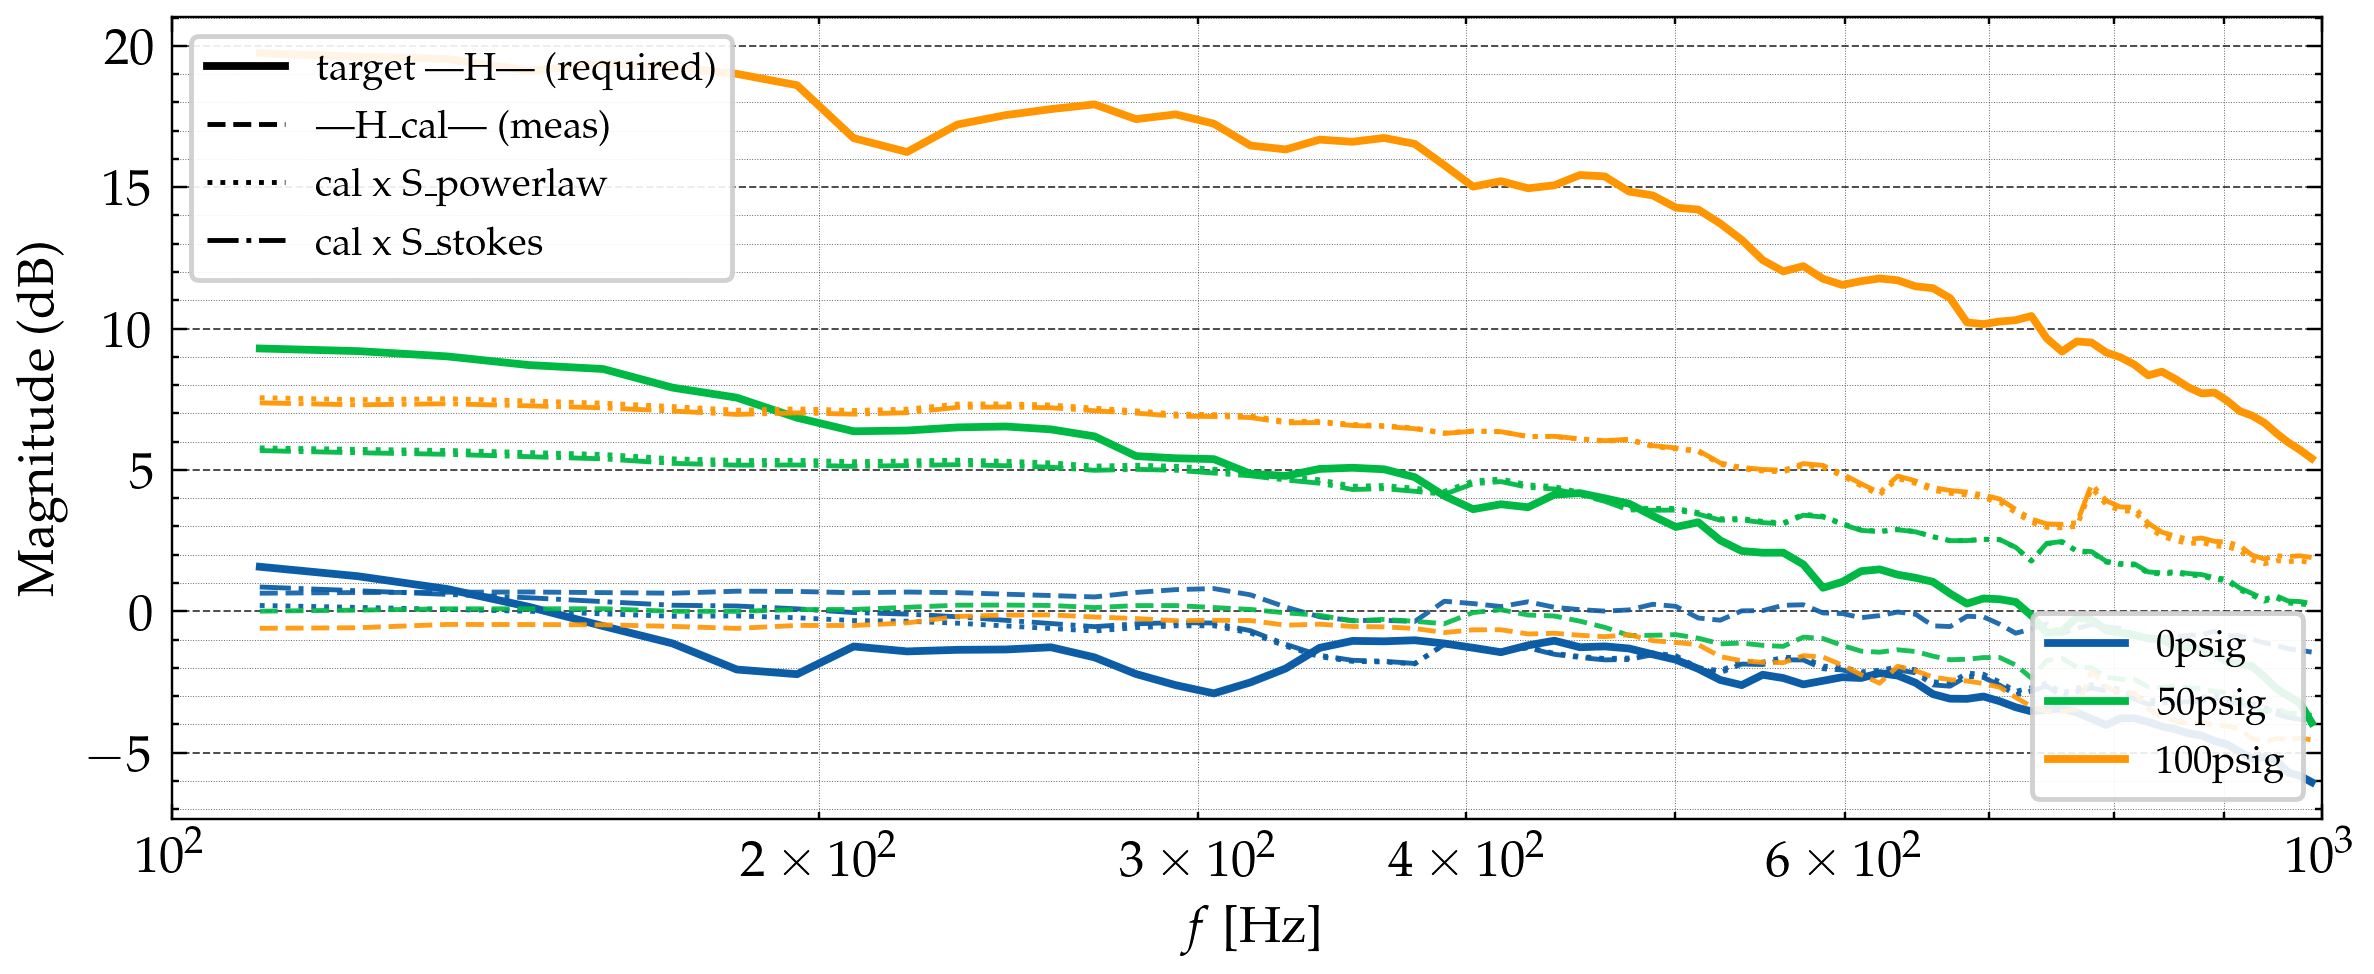
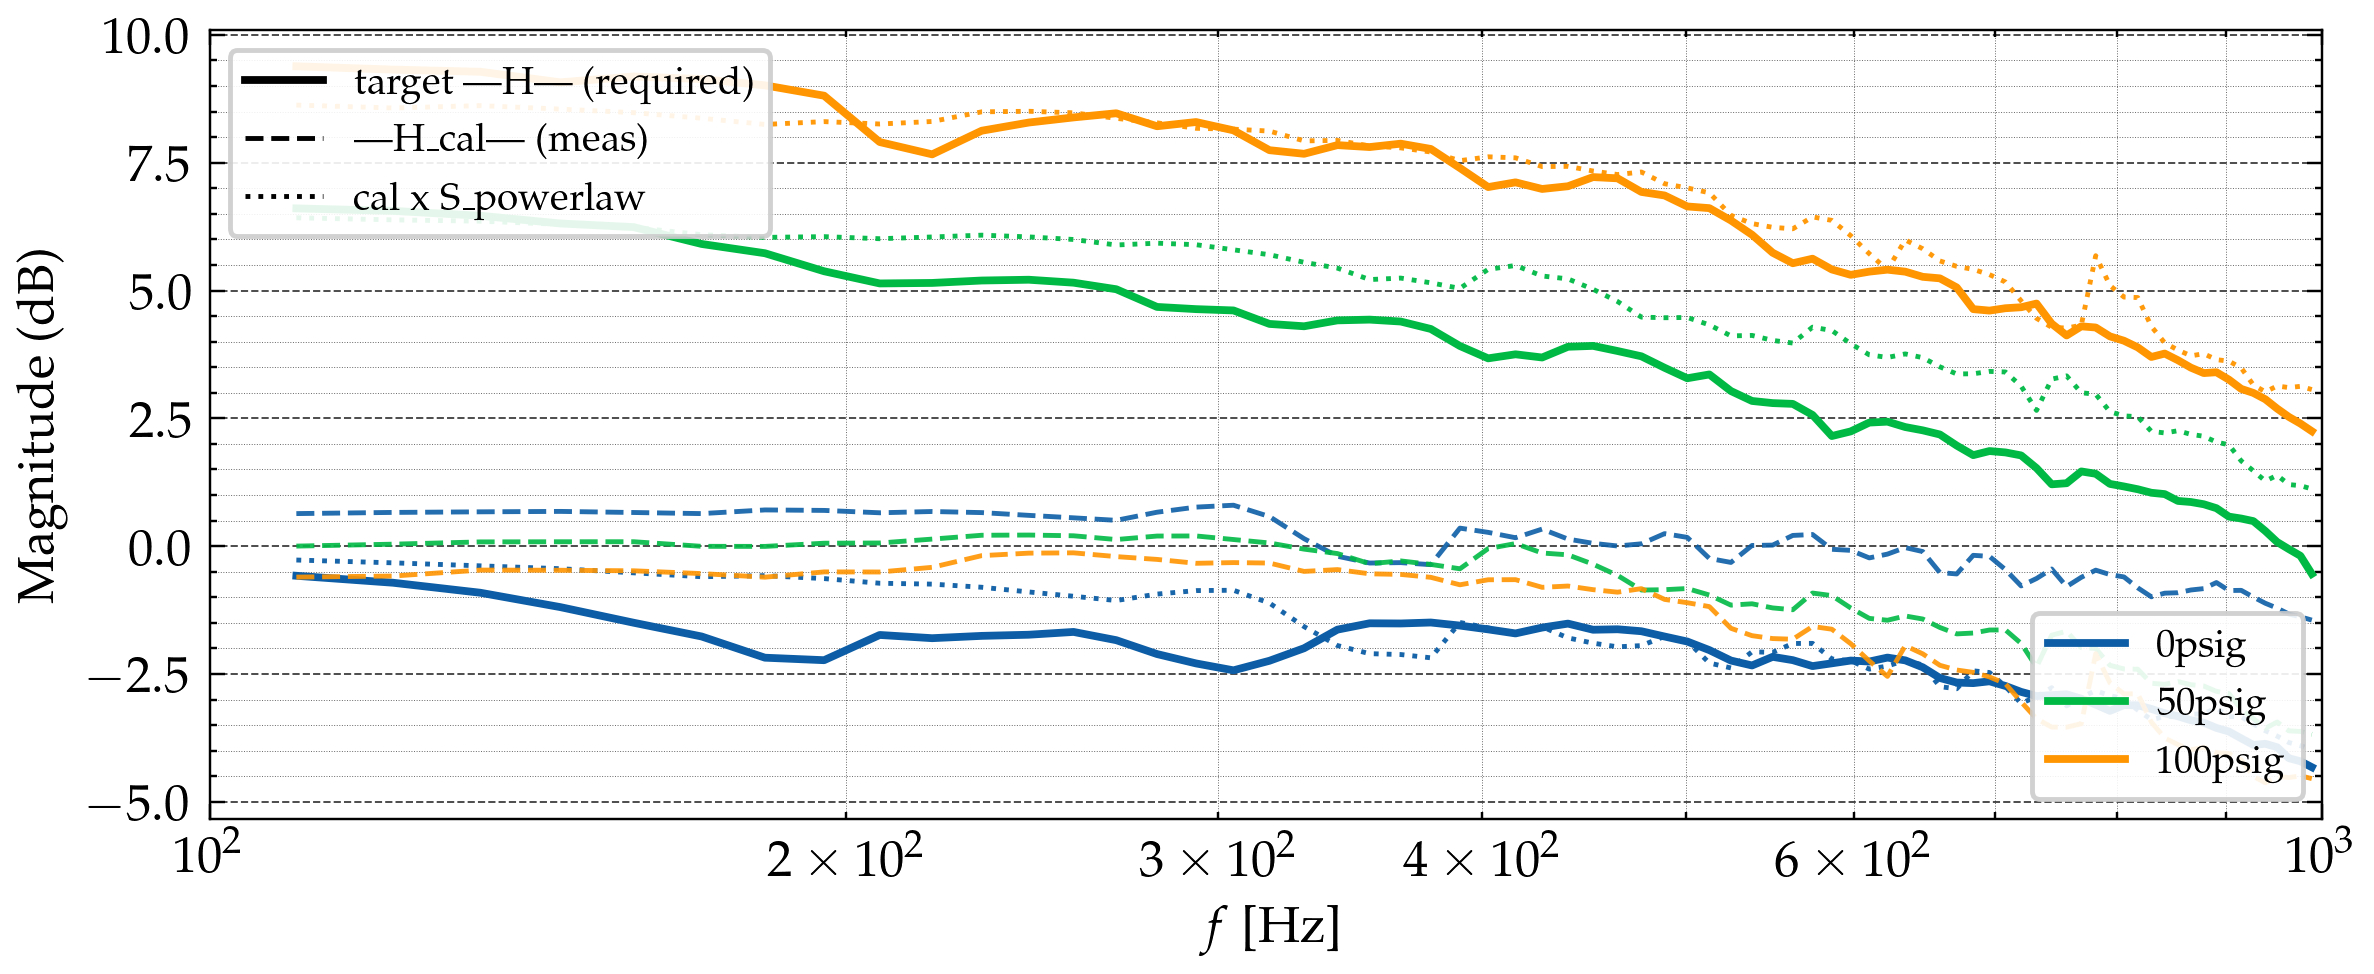
This seems to work really well, incorporate 2nd calibration

diff --git a/src/25-10-30__creative_lumped_element.py b/src/25-10-30__creative_lumped_element.py
@@ -271,19 +271,6 @@ def plot_target_calib_modeled(
     (c0_db, a_rho, b_f), scale_powerlaw, diag_pw = fit_speaker_scaling_from_files(
         labels=labels, fmin=fmin, fmax=fmax, f_ref=f_ref, rho_ref=rho_ref, invert_target=invert_target
     )
-
-    # (b) Stokes-aware broken-power-law model (needs geometry)
-    params_stk, make_scale_stk, diag_stk = fit_speaker_scaling_with_stokes(
-        labels=labels,
-        a_orifice=a_orifice,
-        L_orifice=L_orifice,
-        fmin=fmin,
-        fmax=fmax,
-        f_ref=f_ref,
-        rho_ref=rho_ref,
-        invert_target=invert_target,
-    )
-
     # ----------------------------
     # 2) helpers & styling
     # ----------------------------
@@ -333,29 +320,21 @@ def plot_target_calib_modeled(
             # (here we just raise; you can compute ν via air_props_from_gauge(...) if you prefer).
             raise ValueError(f"Missing 'nu' attribute in lumped_scaling_{L}.h5; please save it in save_lumped_scaling_target().")
 
-        scale_stk = make_scale_stk(nu)                  # bind ν
-        S_stk = scale_stk(f_cal, rho)                   # evaluate at (f, ρ)
-        modeled_stk = cal_mag * S_stk
 
         # --- plot (target, measured, both models)
         if to_db:
             ax.semilogx(f_tgt, as_db(tgt_mag), color=color, lw=1.6)                     # target
             ax.semilogx(f_cal, as_db(cal_mag), color=color, lw=1.0, ls="--", alpha=0.9) # measured cal
             ax.semilogx(f_cal, as_db(modeled_pw), color=color, lw=1.0, ls=":", alpha=0.95)   # power-law modeled
-            ax.semilogx(f_cal, as_db(modeled_stk), color=color, lw=1.0, ls="-.", alpha=0.95) # Stokes modeled
         else:
             ax.semilogx(f_tgt, tgt_mag, color=color, lw=1.6)
             ax.semilogx(f_cal, cal_mag, color=color, lw=1.0, ls="--", alpha=0.9)
             ax.semilogx(f_cal, modeled_pw, color=color, lw=1.0, ls=":", alpha=0.95)
-            ax.semilogx(f_cal, modeled_stk, color=color, lw=1.0, ls="-.", alpha=0.95)
 
         # --- RMSE on the target grid (in dB) for both models
         pw_on_tgt  = np.interp(f_tgt, f_cal, modeled_pw)
-        stk_on_tgt = np.interp(f_tgt, f_cal, modeled_stk)
         e_pw  = as_db(tgt_mag) - as_db(pw_on_tgt)
-        e_stk = as_db(tgt_mag) - as_db(stk_on_tgt)
         rmse_pw[L]  = float(np.sqrt(np.mean(e_pw**2)))
-        rmse_stk[L] = float(np.sqrt(np.mean(e_stk**2)))
 
     # ----------------------------
     # 4) axes & legends
@@ -371,7 +350,6 @@ def plot_target_calib_modeled(
         Line2D([0], [0], color='k', lw=1.6, ls='-',  label="target |H| (required)"),
         Line2D([0], [0], color='k', lw=1.0, ls='--', label="|H_cal| (meas)"),
         Line2D([0], [0], color='k', lw=1.0, ls=':',  label="cal x S_powerlaw"),
-        Line2D([0], [0], color='k', lw=1.0, ls='-.', label="cal x S_stokes"),
     ]
     leg1 = ax.legend(handles=style_handles, loc="upper left", fontsize=8, framealpha=0.9)
 
@@ -415,9 +393,10 @@ def plot_tf_model_comparison():
 
     # (rho0 only used if you want to compare densities directly elsewhere)
     pgs = [0, 50, 100]
-    rho0, *_  = air_props_from_gauge(pgs[0], TDEG[0]+273)
+    
+    u_tau_uncertainty = [0.2, 0.1, 0.05]
 
-    fig, ax = plt.subplots(1, 1, figsize=(7, 3), tight_layout=True)
+    fig, ax = plt.subplots(3, 1, figsize=(7, 4), tight_layout=True, sharex=True, sharey=True)
 
     # --- main loop over datasets ---
     for i, L in enumerate(labels):
@@ -432,10 +411,16 @@ def plot_tf_model_comparison():
             nu = float(hf.attrs['nu'])
             rho = float(hf.attrs['rho'])
             # f_cut = hf.attrs.get('f_cut', np.nan)  # unused here
-            # Re_tau = hf.attrs.get('Re_tau', np.nan)
+            Re_tau = hf.attrs.get('Re_tau', np.nan)
             # cf_2   = hf.attrs.get('cf_2',   np.nan)
         f_cal = np.load(TONAL_BASE + f"wn_frequencies_{L}.npy").astype(float)
         H_cal = np.load(TONAL_BASE + f"wn_H1_{L}.npy")
+
+        # Plot bl model
+        T_plus = (u_tau**2 / nu) / f_cal
+        g1, g2, rv = bl_model(T_plus, Re_tau, 2*(u_tau**2)/14.0**2)
+        ax[i].semilogx(f_cal, (g1+g2)*rv, color=colours[i], lw=0.6, ls='--')
+        ic(Re_tau)
 
         # Load measured calibration FRF (frequency + complex H)
 
@@ -464,31 +449,33 @@ def plot_tf_model_comparison():
         y2_plot = Y2_pm[band]
 
         # plot PH1 & PH2 for this label
-        ax.semilogx(f_plot, y1_plot, linestyle='-', color=colours[i], alpha=0.8, lw=0.8)
-        ax.semilogx(f_plot, y2_plot, linestyle='-', color=colours[i], alpha=0.8, lw=0.8)
+        ax[i].semilogx(f_plot, y1_plot, linestyle='-', color=colours[i], alpha=0.8, lw=0.8)
+        ax[i].semilogx(f_plot, y2_plot, linestyle='-', color=colours[i], alpha=0.8, lw=0.8)
+
+
 
         # ±10% u_tau uncertainty bands (repeat for each channel)
-        u_low, u_high = u_tau*(1 - tau_uncertainty[i]), u_tau*(1 + tau_uncertainty[i])
+        u_low, u_high = u_tau*(1 - u_tau_uncertainty[i]), u_tau*(1 + u_tau_uncertainty[i])
         y1_upper = ((f_sp * Pyy1) / (rho**2 * u_low**4))[band]
         y1_lower = ((f_sp * Pyy1) / (rho**2 * u_high**4))[band]
         y2_upper = ((f_sp * Pyy2) / (rho**2 * u_low**4))[band]
         y2_lower = ((f_sp * Pyy2) / (rho**2 * u_high**4))[band]
-        ax.fill_between(f_plot, y1_upper, y1_lower, color=colours[i], alpha=0.25, edgecolor='none')
-        ax.fill_between(f_plot, y2_upper, y2_lower, color=colours[i], alpha=0.25, edgecolor='none')
+        ax[i].fill_between(f_plot, y1_upper, y1_lower, color=colours[i], alpha=0.25, edgecolor='none')
+        ax[i].fill_between(f_plot, y2_upper, y2_lower, color=colours[i], alpha=0.25, edgecolor='none')
+        ax[i].grid(True, which='major', linestyle='--', linewidth=0.4, alpha=0.7)
+        ax[i].grid(True, which='minor', linestyle=':', linewidth=0.2, alpha=0.6)
 
     # --- axes, legend, save ---
-    ax.set_xlabel(r"$f$ [Hz]")
-    ax.set_ylabel(r"${f \,\phi_{pp}}^+$")
-    ax.set_xlim(50, 1_000)
-    ax.set_ylim(0, 10)
-    ax.grid(True, which='major', linestyle='--', linewidth=0.4, alpha=0.7)
-    ax.grid(True, which='minor', linestyle=':', linewidth=0.2, alpha=0.6)
+    ax[2].set_xlabel(r"$f$ [Hz]")
+    ax[1].set_ylabel(r"${f \,\phi_{pp}}^+$")
+    ax[0].set_xlim(50, 1_000)
+    ax[0].set_ylim(0, 4)
 
-    labels_handles = ['0 psig Data', '50 psig Data', '100 psig Data']
-    label_colours = ['C0', 'C1', 'C2']
-    label_styles = ['solid',  'solid', 'solid']
+    labels_handles = ['0 psig Data', '50 psig Data', '100 psig Data', 'Model']
+    label_colours = ['C0', 'C1', 'C2', 'k']
+    label_styles = ['solid',  'solid', 'solid', 'dashed']
     custom_lines = [Line2D([0], [0], color=label_colours[i], linestyle=label_styles[i]) for i in range(len(labels_handles))]
-    ax.legend(custom_lines, labels_handles, loc='upper right', fontsize=8)
+    ax[0].legend(custom_lines, labels_handles, loc='upper left', fontsize=8)
 
     # title_params = f"scaled FRF: c0={c0_db:.2f} dB, a={a:.3f}, b={b:.3f} | " \
     #                f"ρ_ref={diag['rho_ref']:.3g} kg/m³, f_ref={diag['f_ref']:.0f} Hz"
@@ -501,17 +488,17 @@ def plot_tf_model_comparison():
 
 if __name__ == "__main__":
     # scale_0psig(['0psig', '50psig', '100psig'])
-    # plot_tf_model_comparison()
+    plot_tf_model_comparison()
     # plot_tf_model_comparison_stokes()
-    # plot_target_calib_modeled(
-    #     labels=('0psig', '50psig', '100psig'),
-    #     fmin=100.0,
-    #     fmax=1000.0,
-    #     to_db=True,
-    #     savepath='figures/tonal_ratios/target_calib_modeled_comparison_db.png',
-    # )
-    psigs = [0, 50, 100]
-    labels = [f"{psig}psig" for psig in psigs]
-    save_calibs(labels)
-    save_scaling_target()
-    plot_TFs_and_ratios()
+    plot_target_calib_modeled(
+        labels=('0psig', '50psig', '100psig'),
+        fmin=100.0,
+        fmax=1000.0,
+        to_db=True,
+        savepath='figures/tonal_ratios/target_calib_modeled_comparison_db.png',
+    )
+    # psigs = [0, 50, 100]
+    # labels = [f"{psig}psig" for psig in psigs]
+    # save_calibs(labels)
+    # save_scaling_target()
+    # plot_TFs_and_ratios()
